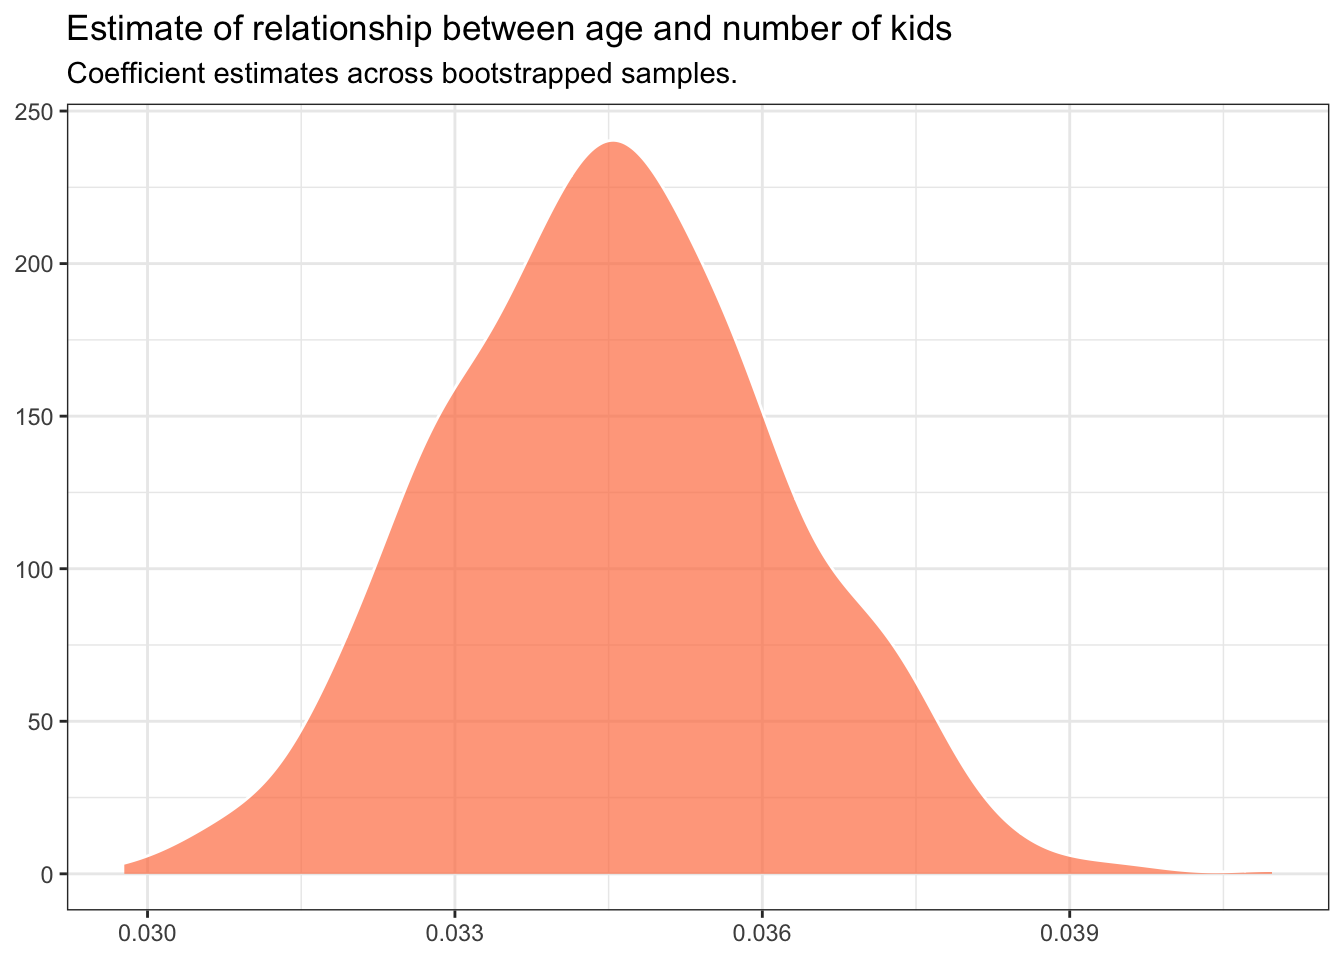
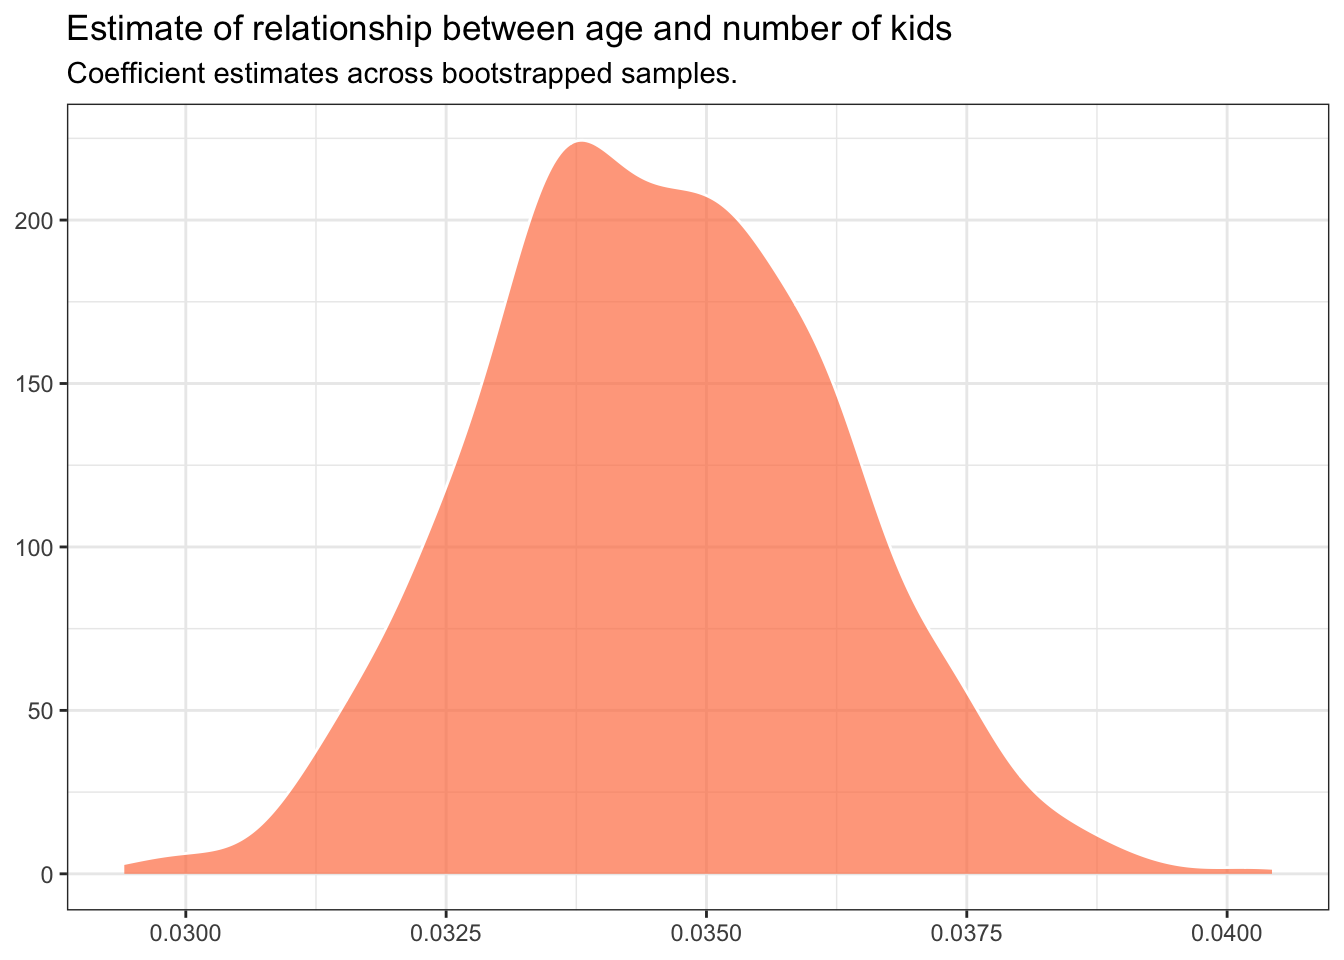
updated final study guide

diff --git a/content/class/bootstrap.html b/content/class/bootstrap.html
@@ -61,15 +61,15 @@ library(infer)</code></pre>
 ## # Groups:   replicate [1,000]
 ##    replicate childs
 ##        &lt;int&gt;  &lt;dbl&gt;
-##  1         1      2
-##  2         1      0
+##  1         1      0
+##  2         1      1
 ##  3         1      4
-##  4         1      2
-##  5         1      3
-##  6         1      2
-##  7         1      4
-##  8         1      4
-##  9         1      3
+##  4         1      0
+##  5         1      1
+##  6         1      0
+##  7         1      2
+##  8         1      2
+##  9         1      0
 ## 10         1      1
 ## # … with 2,858,990 more rows</code></pre>
 <p>Notice how each of the 1,000 bootstrapped samples has the same number of observations as the original dataset.</p>
@@ -82,16 +82,16 @@ library(infer)</code></pre>
 <pre><code>## # A tibble: 2,867 x 1
 ##    childs
 ##     &lt;dbl&gt;
-##  1      1
-##  2      1
-##  3      3
-##  4      0
-##  5      2
-##  6      2
-##  7      0
-##  8      2
-##  9      2
-## 10      0
+##  1      2
+##  2      2
+##  3      2
+##  4      2
+##  5      4
+##  6      3
+##  7      2
+##  8      1
+##  9      0
+## 10      2
 ## # … with 2,857 more rows</code></pre>
 <p>We can then calculate the average number of kids in each of those 1,000 bootstraps:</p>
 <pre class="r"><code>boot_kids = gss_sm %&gt;% 
@@ -107,15 +107,15 @@ boot_kids</code></pre>
 ##    replicate  stat
 ##        &lt;int&gt; &lt;dbl&gt;
 ##  1         1  1.87
-##  2         2  1.87
-##  3         3  1.86
-##  4         4  1.87
-##  5         5  1.82
-##  6         6  1.86
+##  2         2  1.88
+##  3         3  1.88
+##  4         4  1.88
+##  5         5  1.83
+##  6         6  1.82
 ##  7         7  1.85
-##  8         8  1.87
-##  9         9  1.92
-## 10        10  1.87
+##  8         8  1.85
+##  9         9  1.88
+## 10        10  1.85
 ## # … with 990 more rows</code></pre>
 <p><code>stat</code> is the average number of kids in each bootstrap (<code>replicate</code>).</p>
 <p>We can look at the distribution to get a sense for the variability in the estimates:</p>
@@ -133,7 +133,7 @@ boot_kids</code></pre>
 <pre><code>## # A tibble: 1 x 1
 ##       se
 ##    &lt;dbl&gt;
-## 1 0.0311</code></pre>
+## 1 0.0310</code></pre>
 <p>This is also known as the <strong>standard error</strong>.</p>
 <div id="variability-gets-bigger-as-sample-size-gets-smaller" class="section level4">
 <h4>Variability gets bigger as sample size gets smaller</h4>
@@ -162,7 +162,7 @@ boot_kids</code></pre>
 <pre><code>## # A tibble: 1 x 1
 ##      se
 ##   &lt;dbl&gt;
-## 1 0.190</code></pre>
+## 1 0.187</code></pre>
 </div>
 </div>
 <div id="bootstrapping-regression-coefficients" class="section level3">
@@ -204,26 +204,26 @@ boot_kids</code></pre>
 <pre><code>## # A tibble: 1 x 1
 ##        se
 ##     &lt;dbl&gt;
-## 1 0.00167</code></pre>
+## 1 0.00168</code></pre>
 <p>The other is the confidence interval, which provides our “best guess” of the thing we are trying to estimate:</p>
 <pre class="r"><code>boot_age %&gt;% get_confidence_interval(level = .95)</code></pre>
 <pre><code>## # A tibble: 1 x 2
 ##   lower_ci upper_ci
 ##      &lt;dbl&gt;    &lt;dbl&gt;
-## 1   0.0314   0.0377</code></pre>
+## 1   0.0314   0.0378</code></pre>
 <p>The standard is 95%: so the two numbers give us the upper and lower bound of the middle 95% of the bootstrapped distribution.</p>
 <p>Notice that as the confidence increases, the bounds get larger:</p>
 <pre class="r"><code>boot_age %&gt;% get_confidence_interval(level = .99)</code></pre>
 <pre><code>## # A tibble: 1 x 2
 ##   lower_ci upper_ci
 ##      &lt;dbl&gt;    &lt;dbl&gt;
-## 1   0.0305   0.0387</code></pre>
+## 1   0.0302   0.0388</code></pre>
 <p>As the confidence decreases, the bounds get smaller:</p>
 <pre class="r"><code>boot_age %&gt;% get_confidence_interval(level = .5)</code></pre>
 <pre><code>## # A tibble: 1 x 2
 ##   lower_ci upper_ci
 ##      &lt;dbl&gt;    &lt;dbl&gt;
-## 1   0.0334   0.0356</code></pre>
+## 1   0.0334   0.0357</code></pre>
 </div>
 <div id="hypothesis-testing" class="section level2">
 <h2>Hypothesis testing</h2>
@@ -327,25 +327,12 @@ null_biceps</code></pre>
 </ol>
 <p>Point (2) is really important: totally by chance, two variables that are unrelated can still have strong positive or negative correlations. It is <em>unlikely that this happens, but it’s still possible</em>.</p>
 <p>With a simulation of what the world would like under the null hypothesis, we can turn back to our original estimate:</p>
-<pre class="r"><code>lm(conservative ~ bicep, data = fake) %&gt;% summary()</code></pre>
-<pre><code>## 
-## Call:
-## lm(formula = conservative ~ bicep, data = fake)
-## 
-## Residuals:
-##     Min      1Q  Median      3Q     Max 
-## -45.688 -24.505  -5.035  28.053  54.741 
-## 
-## Coefficients:
-##             Estimate Std. Error t value Pr(&gt;|t|)    
-## (Intercept)   46.839      2.892  16.197   &lt;2e-16 ***
-## bicep          3.996      2.754   1.451     0.15    
-## ---
-## Signif. codes:  0 &#39;***&#39; 0.001 &#39;**&#39; 0.01 &#39;*&#39; 0.05 &#39;.&#39; 0.1 &#39; &#39; 1
-## 
-## Residual standard error: 28.92 on 98 degrees of freedom
-## Multiple R-squared:  0.02103,    Adjusted R-squared:  0.01104 
-## F-statistic: 2.105 on 1 and 98 DF,  p-value: 0.15</code></pre>
+<pre class="r"><code>lm(conservative ~ bicep, data = fake) %&gt;% moderndive::get_regression_table()</code></pre>
+<pre><code>## # A tibble: 2 x 7
+##   term      estimate std_error statistic p_value lower_ci upper_ci
+##   &lt;chr&gt;        &lt;dbl&gt;     &lt;dbl&gt;     &lt;dbl&gt;   &lt;dbl&gt;    &lt;dbl&gt;    &lt;dbl&gt;
+## 1 intercept    46.8       2.89     16.2     0       41.1     52.6 
+## 2 bicep         4.00      2.75      1.45    0.15    -1.47     9.46</code></pre>
 <p>How likely is it that our estimate would have occurred by chance?</p>
 <pre class="r"><code>ggplot(null_biceps, aes(x = stat)) + geom_histogram(color = &quot;white&quot;, 
                                                      fill = &quot;coral&quot;) + 
@@ -357,11 +344,11 @@ null_biceps</code></pre>
   geom_vline(xintercept = 3.996, lty = 2, color = &quot;black&quot;, size = 2)</code></pre>
 <p><img src="/class/bootstrap_files/figure-html/unnamed-chunk-22-1.png" width="672" /></p>
 <p>Our estimate is a fair bit larger than what you would expect to observe under the null hypothesis. We can calculate exactly how much larger using the <strong>p-value</strong>. We set <code>direction = right</code> because we want to know how much <em>larger</em> the estimate is than expected.</p>
-<pre class="r"><code>get_p_value(null_biceps, obs_stat = 3.996, direction = &quot;right&quot;)</code></pre>
+<pre class="r"><code>get_p_value(null_biceps, obs_stat = 3.996, direction = &quot;both&quot;)</code></pre>
 <pre><code>## # A tibble: 1 x 1
 ##   p_value
 ##     &lt;dbl&gt;
-## 1   0.084</code></pre>
+## 1   0.168</code></pre>
 <p>The <strong>p-value</strong> is .084, meaning that only 8.4% of the estimates we got by chance are as large or larger than our original result. In other words, our estimate is larger than 84% of the results we could observe by chance.</p>
 <p>We can calculate this “by hand” too, like so:</p>
 <pre class="r"><code>null_biceps %&gt;% 
@@ -397,6 +384,13 @@ null_biceps</code></pre>
        x = &quot;Bootstrapped coefficient estimates from lm(conservative ~ bicep)&quot;, 
        y = NULL)</code></pre>
 <p><img src="/class/bootstrap_files/figure-html/unnamed-chunk-26-1.png" width="672" /></p>
+<p>Here’s the standard error:</p>
+<pre class="r"><code>boot_bicep %&gt;% 
+  summarise(se = sd(stat))</code></pre>
+<pre><code>## # A tibble: 1 x 1
+##      se
+##   &lt;dbl&gt;
+## 1  2.78</code></pre>
 <p>Here’s the 95% confidence interval:</p>
 <pre class="r"><code>get_confidence_interval(boot_bicep, level = .95)</code></pre>
 <pre><code>## # A tibble: 1 x 2
@@ -404,5 +398,55 @@ null_biceps</code></pre>
 ##      &lt;dbl&gt;    &lt;dbl&gt;
 ## 1    -1.58     9.23</code></pre>
 <p>Notice this interval <em>includes</em> 0. This means that the range of values that are our “best guess” for the effect of biceps on ideology <strong>include</strong> the possibility that there is no effect (or that the effect is negative). Following the standard of using .05 as the threshold, we would <em>fail to reject the null hypothesis of no effect of biceps on ideology</em>.</p>
+<p>Here’s the confidence interval again, with shading:</p>
+<pre class="r"><code>ggplot(boot_bicep, aes(x = stat)) + geom_histogram(color = &quot;white&quot;, 
+                                                     fill = &quot;coral&quot;) + 
+  theme_bw() + 
+  labs(title = &quot;Distribution of bootstrapped estimates&quot;, 
+       subtitle = &quot;How the relationship between biceps and ideology might vary across samples.&quot;, 
+       x = &quot;Bootstrapped coefficient estimates from lm(conservative ~ bicep)&quot;, 
+       y = NULL) + 
+  annotate(geom = &quot;rect&quot;, xmin = get_confidence_interval(boot_bicep)[[&quot;lower_ci&quot;]], 
+           xmax = get_confidence_interval(boot_bicep)[[&quot;upper_ci&quot;]], ymin = 0, ymax = Inf, 
+           fill = &quot;#2ECC40&quot;, alpha = 0.25)</code></pre>
+<p><img src="/class/bootstrap_files/figure-html/unnamed-chunk-29-1.png" width="672" /></p>
+<!-- ## Alpha-levels: tradeoffs -->
+<!-- Remember, the (abitrary) convention for deciding between competing hypotheses is a p-value less than .05; that .05 threshold is known as the `alpha-level`. An important thing to remember is that there is a trade-off in the size of the alpha-level:  -->
+<!-- - the bigger the alpha-level, the lower our standard of evidence for rejecting the null, which means a lower chance of Type 2 error (e.g., letting the guilty go free) and a higher chance of Type 1 error (e.g., convicting the innocent) -->
+<!-- - the smaller the alpha-level, the higher our standard of evidence for rejecting the null, which means a higher chance of Type 2 error and a lower chance of Type 1 error -->
+<!-- Let's use simulation to see this. Let's pretend once again that `gss_sm` is the whole of the American public. We want to estimate the effect of age on children in this population. H1 is that people who are older are more likely to have children than people who are younger. H0 (the null) is that people who are older don't have children at higher rates than people who are younger.  -->
+<!-- We can know the exact effect of age on children in this made-up example: -->
+<!-- ```{r} -->
+<!-- lm(childs ~ age, data = gss_sm) %>%  -->
+<!--   tidy() -->
+<!-- ``` -->
+<!-- The true effect size is .0345. So we *should* reject the null, since the coefficient is not zero (or less than zero).  -->
+<!-- Now, say we have a random sample of 200 people from this population. We can take a sample, estimate 95% confidence interval below: -->
+<!-- ```{r} -->
+<!-- gss_sm %>%  -->
+<!--   drop_na() %>%  -->
+<!--   sample_n(200) %>%  -->
+<!--   specify(childs ~ age) %>%  -->
+<!--   generate(reps = 1000, type = "bootstrap") %>%  -->
+<!--   calculate(stat = "slope") %>%  -->
+<!--   get_confidence_interval() -->
+<!-- ``` -->
+<!-- What if we do this many times? How many times will our confidence interval  -->
+<!-- ```{r} -->
+<!-- get_ci = function(x) -->
+<!-- { -->
+<!--   ci = x %>%  -->
+<!--   specify(childs ~ age) %>%  -->
+<!--   generate(reps = 1000, type = "bootstrap") %>%  -->
+<!--   calculate(stat = "slope") %>%  -->
+<!--   get_confidence_interval() -->
+<!--   return(ci) -->
+<!-- } -->
+<!-- gss_sm %>%  -->
+<!--   select(childs, age) %>%  -->
+<!--   rep_sample_n(size = 200, reps = 100, replace = FALSE) %>%  -->
+<!--   nest() %>%  -->
+<!--   mutate(cis = map(data, get_ci)) -->
+<!-- ``` -->
 </div>
 </div>

diff --git a/content/reference/study.html b/content/reference/study.html
@@ -59,24 +59,24 @@ output:
 <h2>Things you should know for Final</h2>
 <div id="you-should-know" class="section level3">
 <h3>You should know…</h3>
-<p>TBA
-<!-- - ...the fundamental problem of causality and why we can't simply regress X against Y to estimate the effect of X on Y -->
-<!-- - ...the difference between experimental research (e.g., rats and insulin) and observational research (e.g., school suspensions and crime) -->
-<!-- - ...how to make causal diagrams (DAGs) that explains how different variables affect one another -->
-<!-- - ...how to explain and give real-world examples of the "fundamental confounds", especially forks, pipes, and colliders, and how you should deal with each of them -->
-<!-- - ...what a backdoor is, and why we worry about backdoors in research -->
-<!-- - ...how we can use multiple regression to close backdoors -->
-<!-- - ...how to interpret coefficient estimates with specificity, using the units in which the variables are measured  -->
-<!-- - ...the logic of a fixed effects model, when we use fixed effects, what they control for (and what they don't) -->
-<!-- - ...how to do coarsened exact matching informally (by hand), and understand why we use matching -->
-<!-- - ...difference-in-difference, when we use it, how to calculate it by hand, and its limitations -->
-<!-- - ...regression discontinuity, when we use it, how to do it by hand, and its limitations -->
-<!-- - ...the difference between populations and samples, and why we worry about estimating stuff from samples -->
-<!-- - ...why we can use bootstrapping to get a sense of sampling uncertainty in our estimate, and the mechanics of how to do it -->
-<!-- - ...what a confidence interval is and how to interpret it -->
-<!-- - ...the logic of a hypothesis test, what the null hypothesis is, how we can use permutation to generate a null distribution -->
-<!-- - ...what a p-value is, how to interpret it, what statistical significance is -->
-<!-- - ...how to read a table with regression output (coefficient, standard error, p-value, significance) -->
-<!-- - ...the tradeoff between Type 1 and Type 2 error in increasing/decreasing the alpha level --></p>
+<ul>
+<li>…the fundamental problem of causality and why we can’t simply regress X against Y to estimate the effect of X on Y</li>
+<li>…the difference between experimental research (e.g., rats and insulin) and observational research (e.g., school suspensions and crime)</li>
+<li>…how to make causal diagrams (DAGs) that explains how different variables affect one another</li>
+<li>…how to explain and give real-world examples of the “fundamental confounds”, especially forks, pipes, and colliders, and how you should deal with each of them</li>
+<li>…what a causal backdoor is, and why we worry about backdoors in research</li>
+<li>…how we can use multiple regression to close backdoors</li>
+<li>…how to interpret coefficient estimates with specificity, using the units in which the variables are measured</li>
+<li>…the logic of a fixed effects model, when we use fixed effects, what they control for (and what they don’t)</li>
+<li>…difference-in-difference, when we use it, how to calculate it by hand, and its limitations</li>
+<li>…regression discontinuity, when we use it, how to do it by hand, and its limitations</li>
+<li>…the difference between populations and samples, and why we worry about estimating stuff from samples</li>
+<li>…why we can use bootstrapping to get a sense of sampling uncertainty in our estimate, and the mechanics of how to do it</li>
+<li>…what a confidence interval is and how to interpret it</li>
+<li>…the logic of a hypothesis test, what the null hypothesis is, how we can use permutation to generate a null distribution</li>
+<li>…what a p-value is, how to interpret it, what statistical significance is</li>
+<li>…how to read a table with regression output (coefficient, standard error, p-value, significance)</li>
+<li>…the tradeoff between Type 1 and Type 2 error in increasing/decreasing the alpha level</li>
+</ul>
 </div>
 </div>

diff --git a/content/reference/_index.html b/content/reference/_index.html
@@ -2,7 +2,7 @@
 title: General help
 menu:
   reference:
-    parent: Overview
+    parent: Guides
 type: docs
 weight: 1
 output:
@@ -15,6 +15,7 @@ output:
 
 <div id="TOC">
 <ul>
+<li><a href="#study-guides">Study guides</a></li>
 <li><a href="#online-help">Online help</a></li>
 <li><a href="#helpers-and-templates">Helpers and Templates</a></li>
 <li><a href="#guides">Guides</a></li>
@@ -22,6 +23,10 @@ output:
 </div>
 
 <!-- <img src="/media/analog.jpg" alt="analog" width="600"/> -->
+<div id="study-guides" class="section level2">
+<h2>Study guides</h2>
+<p>You can access the <a href="study/">study guides for the midterm and final here.</a></p>
+</div>
 <div id="online-help" class="section level2">
 <h2>Online help</h2>
 <p>I have been programming in R for years and still find myself Googling how to do basic things that I’ve forgotten about. Other times, I encounter new coding problems where I can’t quite come up with a good solution.</p>
